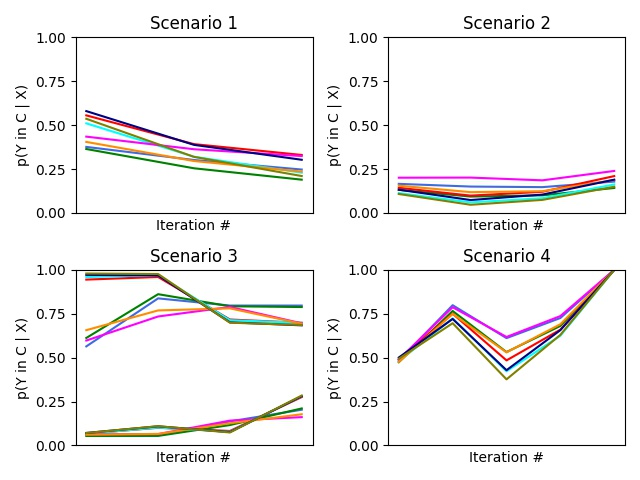
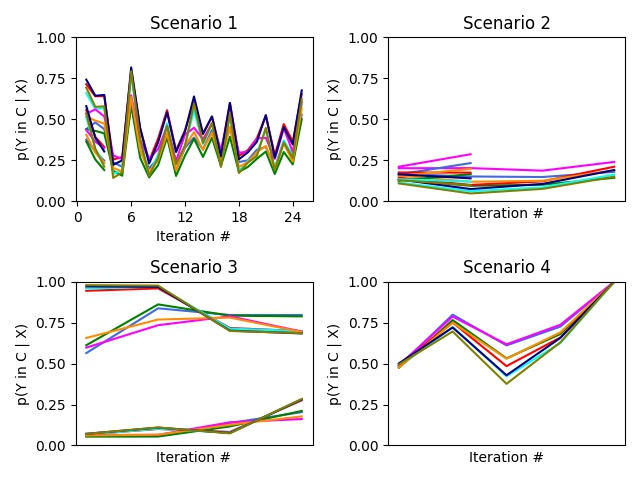
Update termination function in terms of FD stability

diff --git a/server/api.py b/server/api.py
@@ -359,13 +359,14 @@ class Clean(Resource):
             best_cfd_m = cfd_metadata[best_cfd]
             wh_len = len(best_cfd_m['weight_history'])
             if wh_len >= 3:
-                curr_w_conf = 0
+                best_cfd_conf_variation = best_cfd_m['weight_history'][wh_len-1].weight - best_cfd_m['weight_history'][wh_len-3].weight
+                '''curr_w_conf = 0
                 for i in range(0, len(best_cfd_m['history'])):
                     curr_w_conf += (best_cfd_m['history'][i].score / (current_iter - best_cfd_m['history'][i].iter_num + 1))
                 prev_3_w_conf = 0
                 for i in range(0, len(best_cfd_m['history'])-2):
                     prev_3_w_conf += (best_cfd_m['history'][i].score / (current_iter - best_cfd_m['history'][i].iter_num + 1))
-                best_cfd_conf_variation = curr_w_conf - prev_3_w_conf
+                best_cfd_conf_variation = curr_w_conf - prev_3_w_conf'''
 
         if refresh == 0 and (current_iter >= 25 or (best_cfd_m is not None and abs(best_cfd_conf_variation) < 0.05)):
             msg = '[DONE]'

diff --git a/server/helpers.py b/server/helpers.py
@@ -189,8 +189,12 @@ def explainFeedback(full_dataset, dirty_sample, project_id, current_iter):
 
             weight = complexity_bias + weighted_conf
             cfd_metadata[c['cfd']]['weight'] = weight
+            cfd_metadata[c['cfd']]['weight_history'].append(CFDWeightHistory(iter_num=current_iter, weight=weight, elapsed_time=elapsed_time))
         
         cfd_metadata = normalizeWeights(cfd_metadata)
+        # for cfd_m in cfd_metadata.values():
+        #     cfd_m['weight_history'].append(CFDWeightHistory(iter_num=current_iter, weight=cfd_m['weight'], elapsed_time=elapsed_time))
+
         print('*** CFDD output processed and FD weights updated ***')
 
         pickle.dump( cfd_metadata, open('./store/' + project_id + '/cfd_metadata.p', 'wb') )
